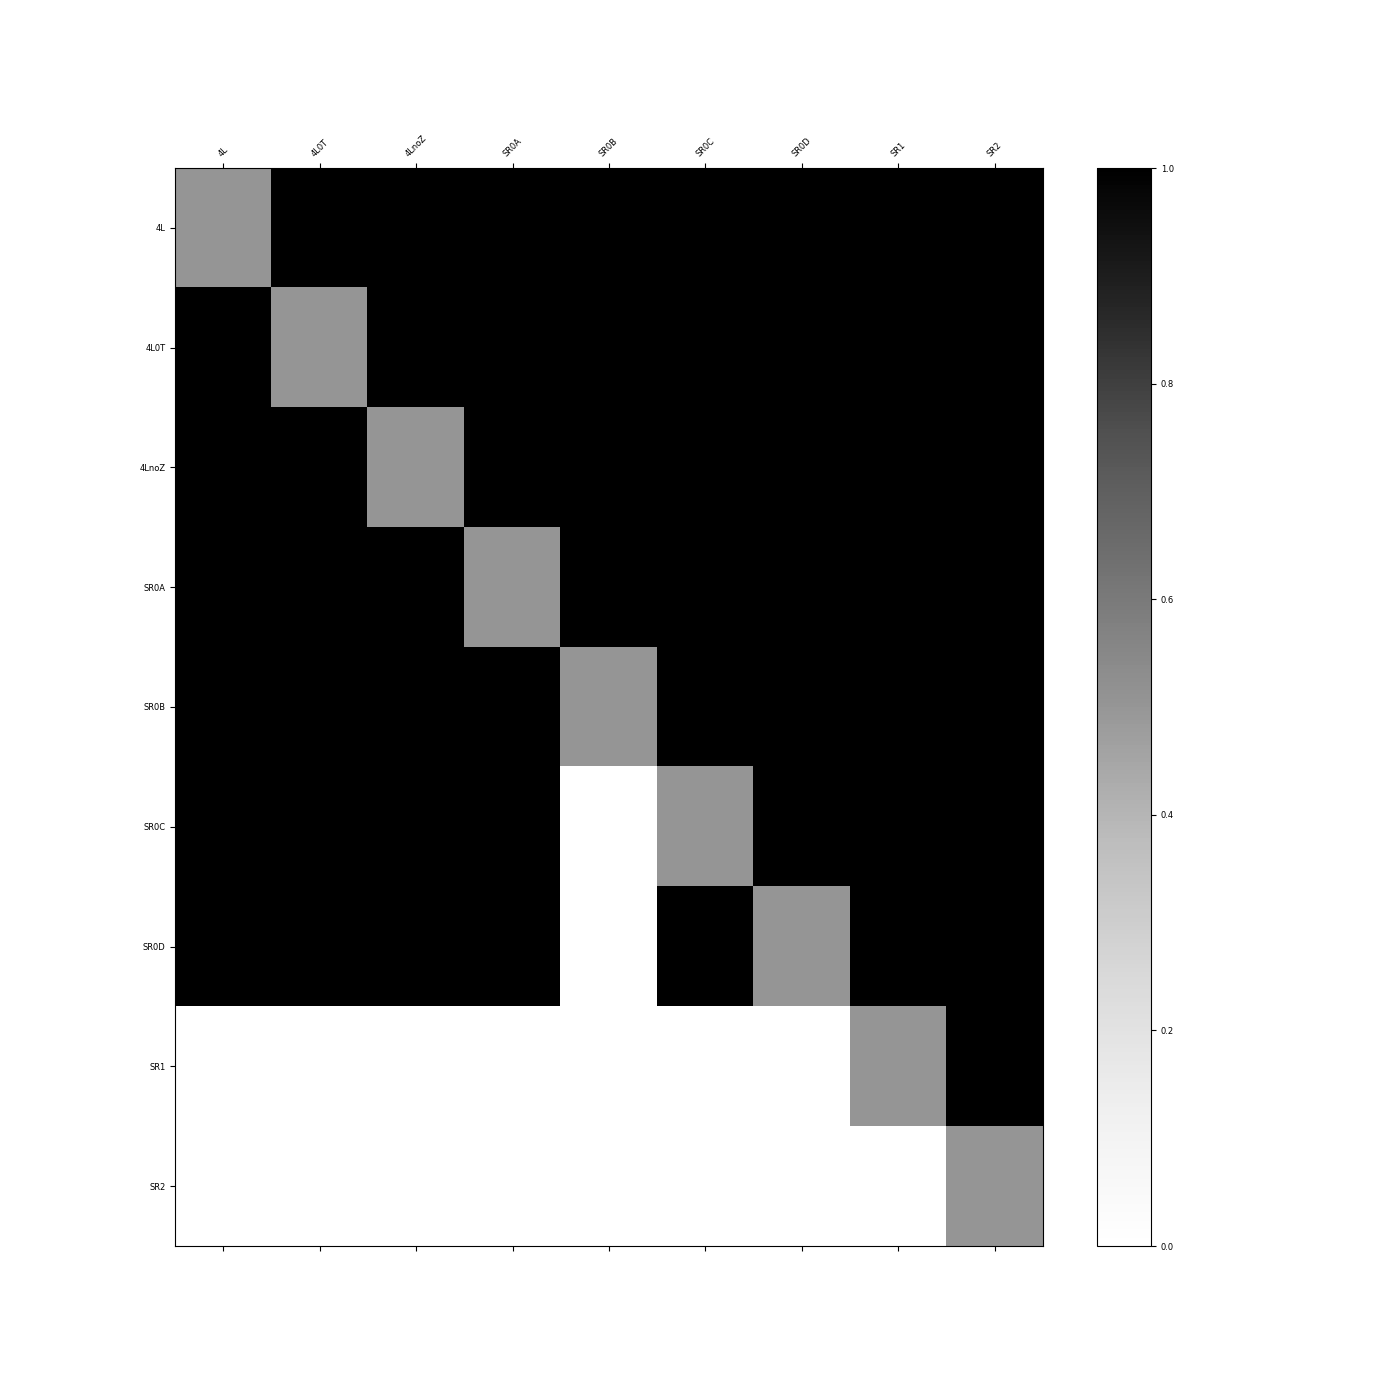
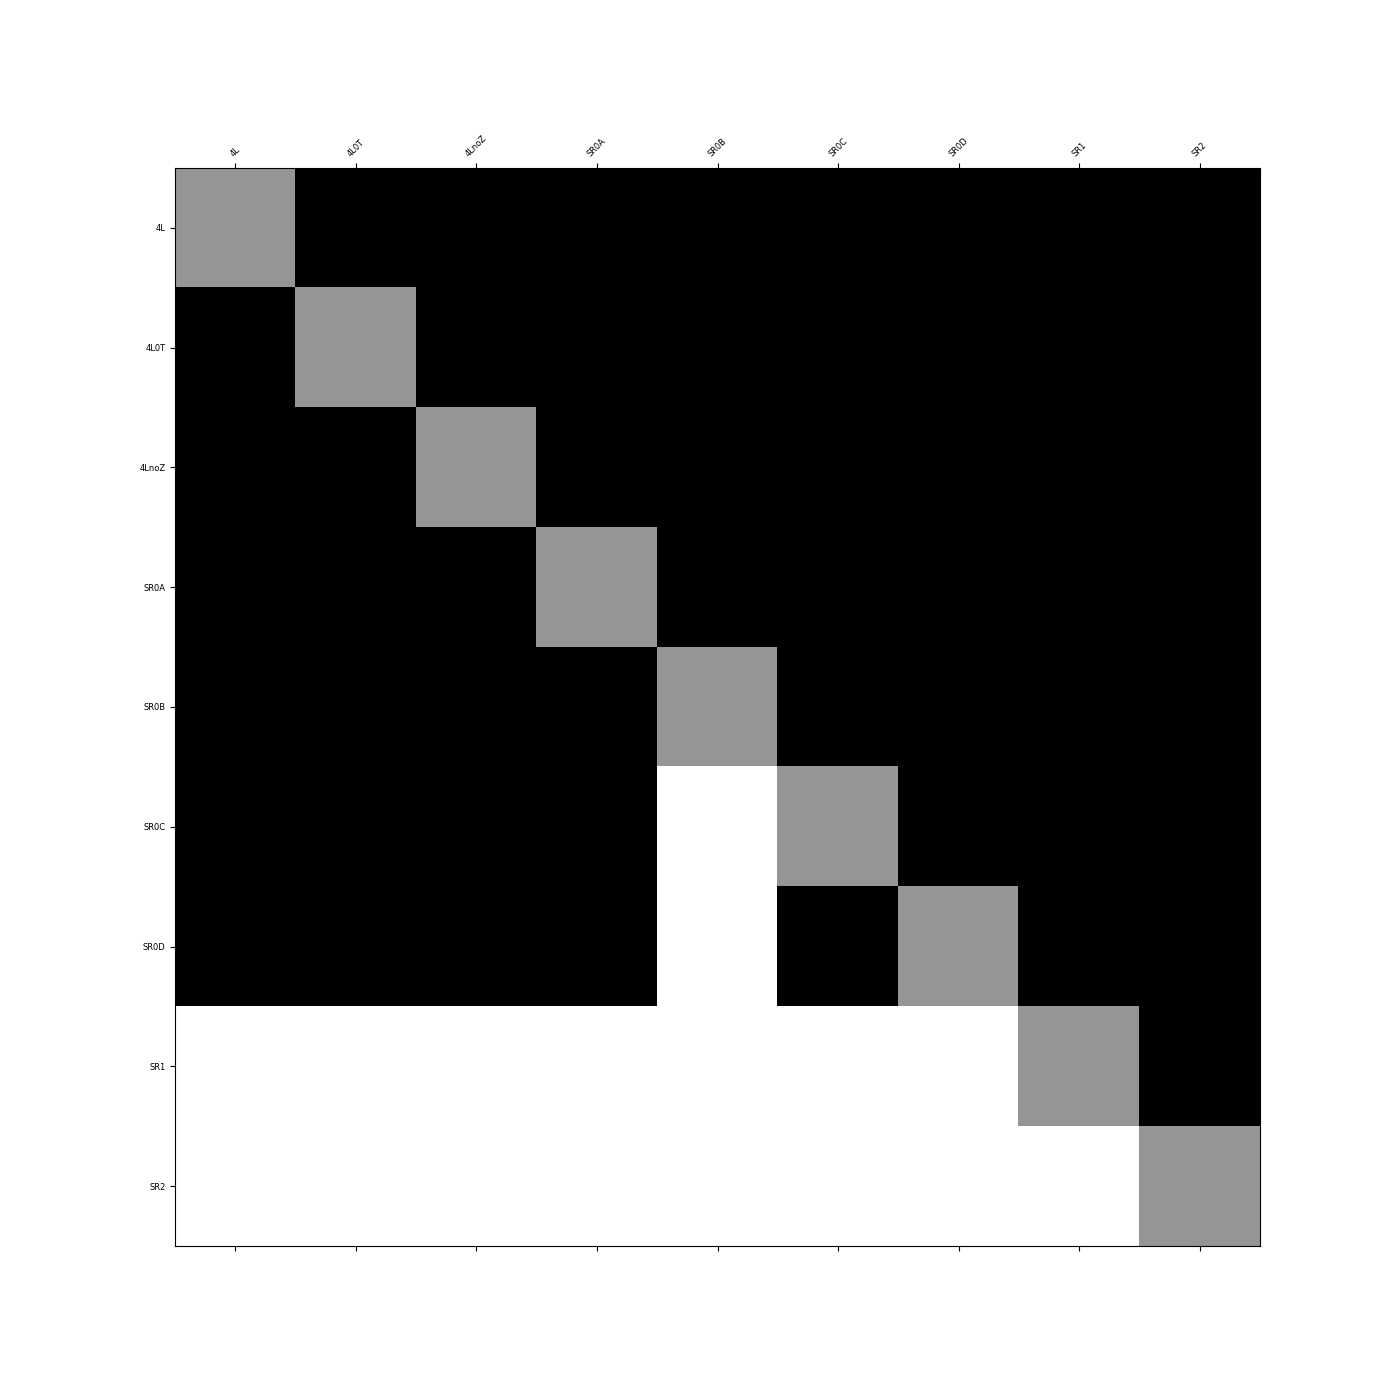
Included plotting non-correlation fields in matrix.

Changed region(s): [[0.2457, 0.0921, 0.9214, 0.8907], [0.1843, 0.1229, 0.215, 0.3071], [0.4914, 0.0921, 0.5221, 0.1229]]

diff --git a/src/utils/plotting.py b/src/utils/plotting.py
@@ -3,8 +3,10 @@ handy way to plot different matrices.
 """
 
 import pathlib
-from typing import List
+from itertools import combinations
+from typing import Dict, List
 
+import matplotlib
 import matplotlib.pyplot as plt
 import numpy as np
 
@@ -58,7 +60,7 @@ def corr_matrix_plotting(correlation_matrix: np.array,
     which SR regions correlate.
 
     Args:
-        correlation_matrix (np.array): Pearson Correlation Coeff..
+        correlation_matrix (np.array): Pearson Correlation Coeff.
         column_names (List[str]): Names of the SR regions.
         show (bool, optional): Shows figure while
         running the analysis run. Defaults to False.
@@ -66,7 +68,7 @@ def corr_matrix_plotting(correlation_matrix: np.array,
     # from binary format into float format such that
     # diagonal elements can be painted grey (self correlating SRs),
     # white for SR correlations below threshold and black for above
-    correlation_matrix = np.array(correlation_matrix, dtype=float)
+    correlation_matrix = np.array(correlation_matrix, dtype=np.float32)
     # indices of lower triangle and set them to 1
     indices_lower = np.tril_indices_from(correlation_matrix)
     correlation_matrix[indices_lower] = 1
@@ -80,8 +82,9 @@ def corr_matrix_plotting(correlation_matrix: np.array,
     # using rc function
     plt.rc('font', **font)
     fig, ax = plt.subplots(figsize=(14, 14))
-    # , vmin=0, vmax=1)
+
     pcol = ax.pcolor(correlation_matrix, cmap=plt.cm.Greys)
+
     # put the major ticks at the middle of each cell
     ax.set_xticks(np.arange(len(column_names)) + 0.5,
                   minor=False)
@@ -97,10 +100,6 @@ def corr_matrix_plotting(correlation_matrix: np.array,
     ax.set_yticklabels(column_names,
                        minor=False)
 
-    fig.text(0.8, 1.2, 'Meaning of Colors', horizontalalignment='center',
-             verticalalignment='center', transform=ax.transAxes)
-
-    fig.colorbar(pcol, ax=ax, orientation='vertical')
     fig.savefig(str(pathlib.Path(__file__).parent.resolve()) +
                 "/../../results/correlations_threshold.png")
 
@@ -109,5 +108,68 @@ def corr_matrix_plotting(correlation_matrix: np.array,
     return
 
 
-def path_through_matrix_plotting():
-    pass
+def correlation_free_entries_marking(binary_correlation_matrix: np.array,
+                                     proposed_paths: Dict,
+                                     column_names: List[str],
+                                     show: bool = False):
+    """Generates a figure that holds the binary correlation
+    matrix as well as it colors the path of the uncorrolated
+    SR in light green color.
+
+    Args:
+        binary_correlation_matrix (np.array): Pearson Correlation Coeff.
+        proposed_paths (Dict): Proposed paths py TACO.
+        column_names (List[str]): SR names.
+        show (bool, optional): Shows figure while
+        running the analysis run. Defaults to False.
+    """
+    # from binary format into float format such that
+    # diagonal elements can be painted grey (self correlating SRs),
+    # white for SR correlations below threshold and black for above
+    correlation_matrix = np.array(binary_correlation_matrix, dtype=np.float32)
+    # indices of lower triangle and set them to 1
+    indices_lower = np.tril_indices_from(correlation_matrix)
+    correlation_matrix[indices_lower] = 1
+    # set diagonal to 0.5 for better visualization
+    np.fill_diagonal(correlation_matrix, 0.5)
+    # transpose matrix as in TACO paper
+    correlation_matrix = correlation_matrix.T
+
+    # just one path
+    combs = combinations(proposed_paths[0]["path"], r=2)
+    for comb in combs:
+        comb = sorted(comb, reverse=True)
+        correlation_matrix[comb[0], comb[1]] = -1
+
+    cmap = matplotlib.cm.Greys
+    cmap.set_under(color='green', alpha=0.4)
+
+    font = {'size': 6}
+
+    # using rc function
+    plt.rc('font', **font)
+    fig, ax = plt.subplots(figsize=(14, 14))
+
+    pcol = ax.pcolor(correlation_matrix, cmap=cmap, vmin=-0.001)
+
+    # put the major ticks at the middle of each cell
+    ax.set_xticks(np.arange(len(column_names)) + 0.5,
+                  minor=False)
+    ax.set_yticks(np.arange(len(column_names)) + 0.5,
+                  minor=False)
+    # want a more natural, table-like display
+    ax.invert_yaxis()
+    ax.xaxis.tick_top()
+    ax.xaxis.set_ticks_position('both')
+    ax.set_xticklabels(column_names,
+                       minor=False,
+                       rotation=45)
+    ax.set_yticklabels(column_names,
+                       minor=False)
+
+    fig.savefig(str(pathlib.Path(__file__).parent.resolve()) +
+                "/../../results/correlations_path.png")
+
+    if show is True:
+        plt.show()
+    return

diff --git a/src/utils/printer.py b/src/utils/printer.py
@@ -5,13 +5,13 @@ different files to the console.
 import pathlib
 from datetime import timedelta
 from time import time
-from typing import List
+from typing import Dict
 
 
 def sataco() -> None:
     """Prints SATACO letters from sataco.txt file.
     """
-    sataco_file_path = str(pathlib.Path(
+    sataco_file_path: str = str(pathlib.Path(
         __file__).parent.resolve()) + "/sataco.txt"
     sataco_file = open(sataco_file_path)
     sataco_content = sataco_file.read()
@@ -24,7 +24,7 @@ def info() -> None:
     """Prints info on the command line stored
     in the info.txt file.
     """
-    info_file_path = str(pathlib.Path(
+    info_file_path: str = str(pathlib.Path(
         __file__).parent.resolve()) + "/info.txt"
     info_file = open(info_file_path)
     info_content = info_file.read()
@@ -33,24 +33,28 @@ def info() -> None:
     return
 
 
-def result(best_SR_comb: List[str]) -> None:
+def result(best_SR_comb: Dict) -> None:
     """Prints best combination ton the command line
     and writes results into dedicated file.
 
     Args:
-        best_SR_comb (List[str]): Best SR combinations from
+        best_SR_comb (Dict[List[str]]): Best SR combinations from
         HDFS graph algrotihm.
     """
-    result_file_path = str(pathlib.Path(
-        __file__).parent.resolve()) + "/../best_SR_comb.txt"
+    result_file_path: str = str(pathlib.Path(
+        __file__).parent.resolve()) + "/../../results/best_SR_comb.txt"
+    print("\n---------------------------------------")
+    print("\nThe best combination of SRs is:\n")
     with open(result_file_path, "w") as result_file:
-        for SR in best_SR_comb:
-            result_file.write(SR + "\n")
+        for path_idx, paths in best_SR_comb.items():
+            print(f"Path Idx {path_idx} (weight: {paths['weight']}): ", end="")
+            result_file.write(str(path_idx) + ": ")
+            for SR in paths["path"]:
+                result_file.write(SR + ", ")
+            print(*paths["path"], sep=", ", end=".\n")
+            result_file.write("\n")
 
-    print("---------------------------------------")
-    print("The best combination of SRs is:\n")
-    print(*best_SR_comb, sep=" ", end=".\n")
-    print(f"Saved under: \n {result_file_path}.")
+    print(f"\nSaved under:\n{result_file_path}.\n ")
     print("---------------------------------------")
     return
 
@@ -62,7 +66,7 @@ def summary(STARTTIME: float) -> None:
     Args:
         STARTTIME (float): Unix time the program started.
     """
-    summary_file_path = str(pathlib.Path(
+    summary_file_path: str = str(pathlib.Path(
         __file__).parent.resolve()) + "/summary.txt"
     summary_file = open(summary_file_path)
     summary_content = summary_file.read()

diff --git a/src/main.py b/src/main.py
@@ -22,9 +22,10 @@ from exceptions.exceptions import (NonSimpleAnalysisFormat,
                                    SAWrongArgument)
 from utils.functions import (calc_num_combs, calc_pearson_corr,
                              check_sufficient_statistics, df_mapping_dict,
-                             threshold_corr_matrix)
+                             indices_to_SR_names, threshold_corr_matrix)
 from utils.path_finder import PathFinder
-from utils.plotting import SR_matrix_plotting, corr_matrix_plotting
+from utils.plotting import (SR_matrix_plotting, corr_matrix_plotting,
+                            correlation_free_entries_marking)
 from utils.printer import info, result, sataco, summary
 from utils.saving import (save_df_corr, save_df_SR_event, save_df_SR_SR,
                           save_sr_names)
@@ -315,9 +316,24 @@ def main() -> int:
     # initialize the path finder
     path_finder: PathFinder = PathFinder(corelations=pearson_coeff)
     # start the algorithm to find the best path
-    signal_regions: Dict = path_finder.find_path(top=3)
+    proposed_paths: Dict = path_finder.find_path(top=3)
 
-    print(f"\nBest paths are {signal_regions}.\n")
+    # plot the top=1 path into binary matrix
+    process_matrix_path_plotting: Process = Process(
+        target=correlation_free_entries_marking,
+        args=(corr_matrix_binary,
+              proposed_paths,
+              non_zero_column_names))
+    process_matrix_path_plotting.start()
+
+    # change indices to SR names
+    proposed_paths_SR_Names: Dict = indices_to_SR_names(
+        SR_names=non_zero_column_names,
+        path_dictionary=proposed_paths)
+    # save the proposed paths to a txt file
+    # and print nicely on the command line
+
+    result(best_SR_comb=proposed_paths_SR_Names)
 
     # 9) JOINING MULTIPROCESSES
     process_save_df_SR_event.join()
@@ -325,7 +341,8 @@ def main() -> int:
     process_save_df_corr.join()
     process_SR_matrix_plotting.join()
     process_corr_matrix_plotting.join()
-    print("\nAll 5 processes joined.\n")
+    process_matrix_path_plotting.join()
+    print("\nAll 5 processes joined.")
 
     # 10) SUMMARY
     summary(STARTTIME=STARTTIME)

diff --git a/src/utils/functions.py b/src/utils/functions.py
@@ -10,10 +10,10 @@ from exceptions.exceptions import NotEnoughStatistcis
 def df_mapping_dict(SR_names: List[str],
                     inv: bool = False) -> Dict[int, str]:
     """Generate mapping dictionary for dataframe
-    renaming and getting key rapidly
+    renaming and getting key rapidly.
 
     Args:
-        SR_names (List[str]):
+        SR_names (List[str]): List of Signal Regions.
         inv (bool): Inverts the dictionary. Defaults to False.
 
     Returns:
@@ -27,18 +27,18 @@ def df_mapping_dict(SR_names: List[str],
     return mapping_dict
 
 
-def calc_num_combs(len_sr_names: int) -> int:
+def calc_num_combs(len_SR_names: int) -> int:
     """Formula to calculate the number of
     combinations with replacement for two
     signal regions.
 
     Args:
-        len_sr_names (int): Length of list of signal regions.
+        len_SR_names (int): Length of list of signal regions.
 
     Returns:
         int: Number of combinations.
     """
-    return int((len_sr_names + 1) * len_sr_names/2)
+    return int((len_SR_names + 1) * len_SR_names/2)
 
 
 def check_sufficient_statistics(SR_SR_matrix: np.array,
@@ -79,3 +79,26 @@ def threshold_corr_matrix(correlation_matrix: np.array,
         np.array: Allowed correlation in binary format.
     """
     return correlation_matrix > threshold
+
+
+def indices_to_SR_names(SR_names: List[str],
+                        path_dictionary: Dict) -> Dict:
+    """Maps the indices of the Signal Regions to their
+    corresponding names.
+
+    Args:
+        SR_names (List[str]): List of Signal Regions.
+        path_dictionary (Dict): Dictionary
+        as output of TACO.
+
+    Returns:
+        Dict[Dict[str, List[str]]]: Dictionary with SR names instead
+        of indices.
+    """
+    path_list: List = []
+    for path_idx, path in path_dictionary.items():
+        path_list = path["path"]
+        for idx, SR_idx in enumerate(path_list):
+            path_list[idx] = SR_names[SR_idx]
+        path_dictionary[path_idx]["path"] = path_list
+    return path_dictionary
